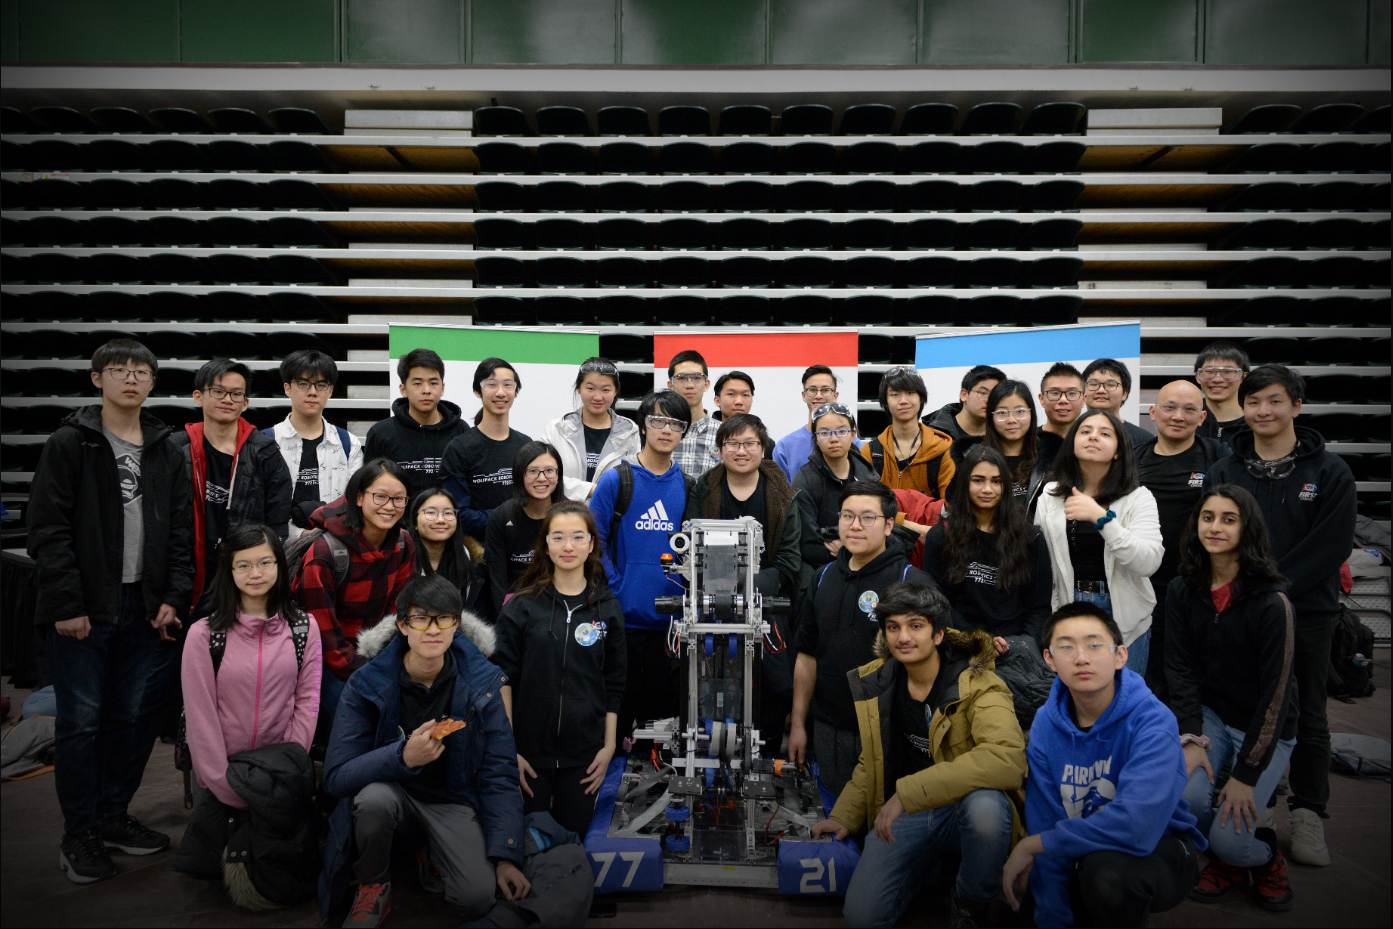
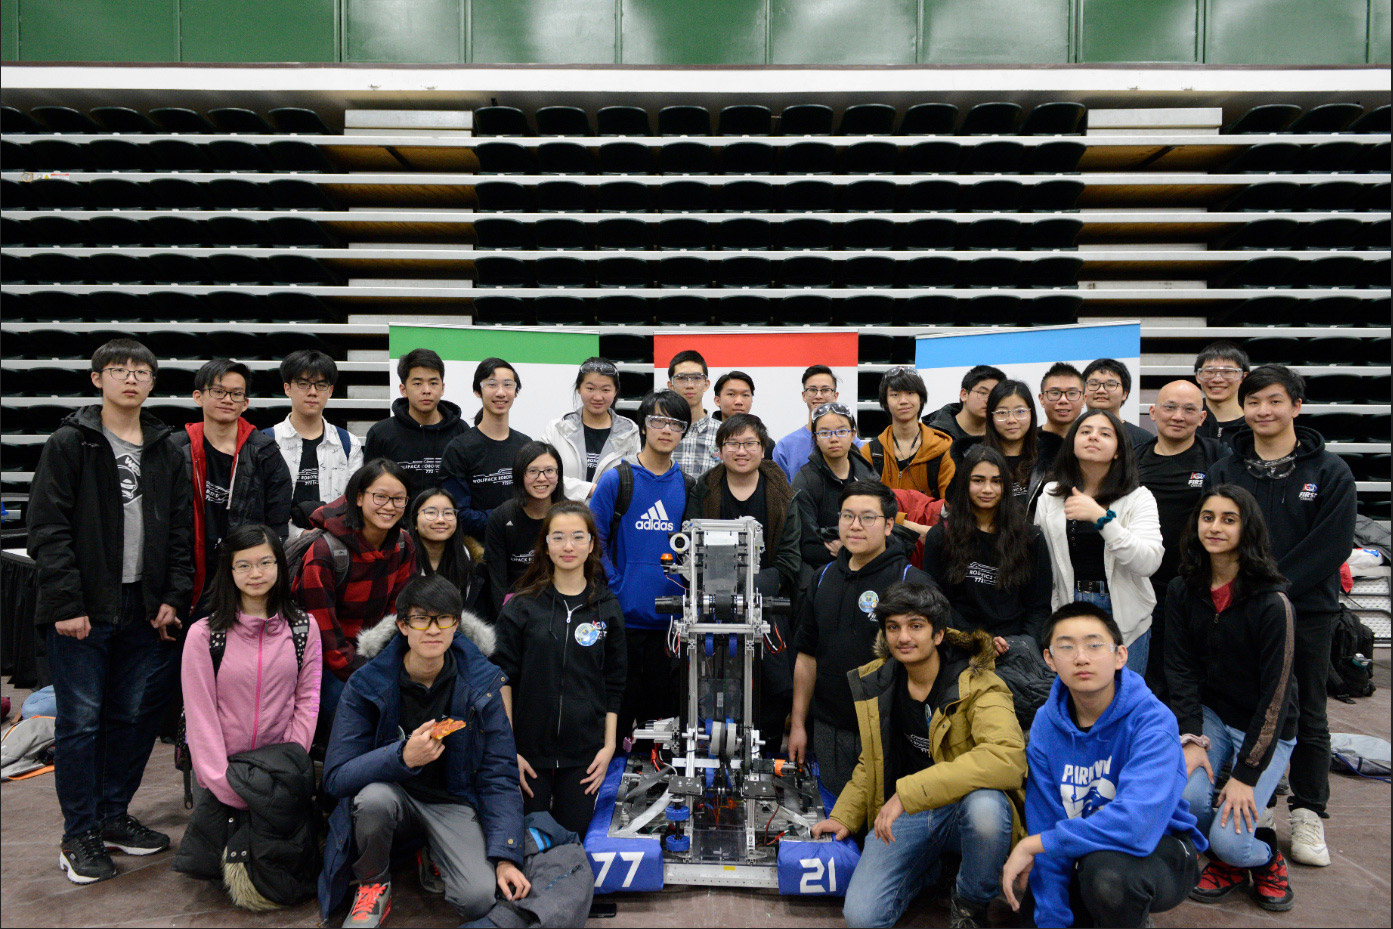
finished the image/vignetted thing
Former-commit-id: dd57cf62bdbfc13f53f914e8a37871aeaefdfff5

diff --git a/index.html b/index.html
@@ -153,28 +153,28 @@
 					</ol>
 					<div class="carousel-inner">
 						<div class="carousel-item active">
-							<img class="d-block w-100 lozad" data-src="images/events/durham.jpg" alt="team">
+							<img class="d-block w-100 lozad" data-src="images/events/durham-vignette.jpg" alt="team">
 							<div class="carousel-caption d-block">
 								<h5>Our Team 2020</h5>
 								<p>Lorem ipsum dolor sit amet consectetur adipisicing elit. Ipsam, libero vitae possimus odit, voluptatem tempora quia dicta, neque nam inventore voluptate sunt itaque saepe voluptatibus nisi in et quibusdam delectus.</p>
 							</div>
 						</div>
 						<div class="carousel-item">
-							<img class="d-block w-100 lozad" data-src="images/events/eggtarts.jpg" alt="eggtarts">
+							<img class="d-block w-100 lozad" data-src="images/events/eggtarts-vignette.jpg" alt="eggtarts">
 							<div class="carousel-caption d-block">
 								<h5>Autumnsfest 2019</h5>
 								<p>We sold some eggtarts to promote STEM education and to raise awareness in STEM education. Lorem ipsum dolor sit amet consectetur adipisicing elit.</p>
 							</div>
 						</div>
 						<div class="carousel-item">
-							<img class="d-block w-100 lozad" data-src="images/events/first_meeting.jpg" alt="first_meeting">
+							<img class="d-block w-100 lozad" data-src="images/events/first_meeting-vignette.jpg" alt="first_meeting">
 							<div class="carousel-caption d-block">
 								<h5>First Meeting September 2019</h5>
 								<p>We introduced a lot of new members to the wonderful world of First Robotics Contest. Lorem ipsum dolor sit amet consectetur adipisicing elit.</p>
 							</div>
 						</div>
 						<div class="carousel-item">
-							<img class="d-block w-100 lozad" data-src="images/events/mayfair.jpg" alt="mayfair">
+							<img class="d-block w-100 lozad" data-src="images/events/mayfair-vignette.jpg" alt="mayfair">
 							<div class="carousel-caption d-block">
 								<h5>Mayfair 2019</h5>
 								<p>Lorem ipsum dolor sit amet consectetur adipisicing elit. Ipsam, libero vitae possimus odit, voluptatem tempora quia dicta, neque nam inventore voluptate sunt itaque saepe voluptatibus nisi in et quibusdam delectus.</p>
@@ -200,7 +200,7 @@
 					<div class="carousel-inner">
 						<div class="carousel-item active">
 							<div class="card w-100">
-								<img class="card-img-top lozad" data-src="images/events/durham.jpg" alt="team">
+								<img class="card-img-top lozad" data-src="images/events/durham-compressed-vignette.jpg" alt="team">
 								<div class="card-body">
 									<h5 class="card-title">Our Team 2020</h5>
 									<p class="card-text">Lorem ipsum dolor sit amet consectetur adipisicing elit. Ipsam, libero vitae possimus odit, voluptatem tempora quia dicta, neque nam inventore voluptate sunt itaque saepe voluptatibus nisi in et quibusdam delectus.</p>
@@ -210,7 +210,7 @@
 						</div>
 						<div class="carousel-item">
 							<div class="card w-100">
-								<img class="card-img-top lozad" data-src="images/events/eggtarts.jpg" alt="eggtarts">
+								<img class="card-img-top lozad" data-src="images/events/eggtarts-compressed.jpg" alt="eggtarts">
 								<div class="card-body">
 									<h5 class="card-title">Autumnsfest 2019</h5>
 									<p class="card-text">We sold some eggtarts to promote STEM education and to raise awareness in STEM education. Lorem ipsum dolor sit amet consectetur adipisicing elit.</p>
@@ -219,7 +219,7 @@
 						</div>
 						<div class="carousel-item">
 							<div class="card w-100">
-								<img class="card-img-top lozad" data-src="images/events/first_meeting.jpg" alt="first meeting">
+								<img class="card-img-top lozad" data-src="images/events/first_meeting-compressed.jpg" alt="first meeting">
 								<div class="card-body">
 									<h5 class="card-title">First Meeting September 2019</h5>
 									<p class="card-text">We introduced a lot of new members to the wonderful world of First Robotics Contest. Lorem ipsum dolor sit amet consectetur adipisicing elit.</p>
@@ -228,7 +228,7 @@
 						</div>
 						<div class="carousel-item">
 							<div class="card w-100">
-								<img class="card-img-top lozad" data-src="images/events/mayfair.jpg" alt="mayfair">
+								<img class="card-img-top lozad" data-src="images/events/mayfair-compressed.jpg" alt="mayfair">
 								<div class="card-body">
 									<h5 class="card-title">Mayfair 2019</h5>
 									<p class="card-text">Lorem ipsum dolor sit amet consectetur adipisicing elit. Ipsam, libero vitae possimus odit, voluptatem tempora quia dicta, neque nam inventore voluptate sunt itaque saepe voluptatibus nisi in et quibusdam delectus.</p>
